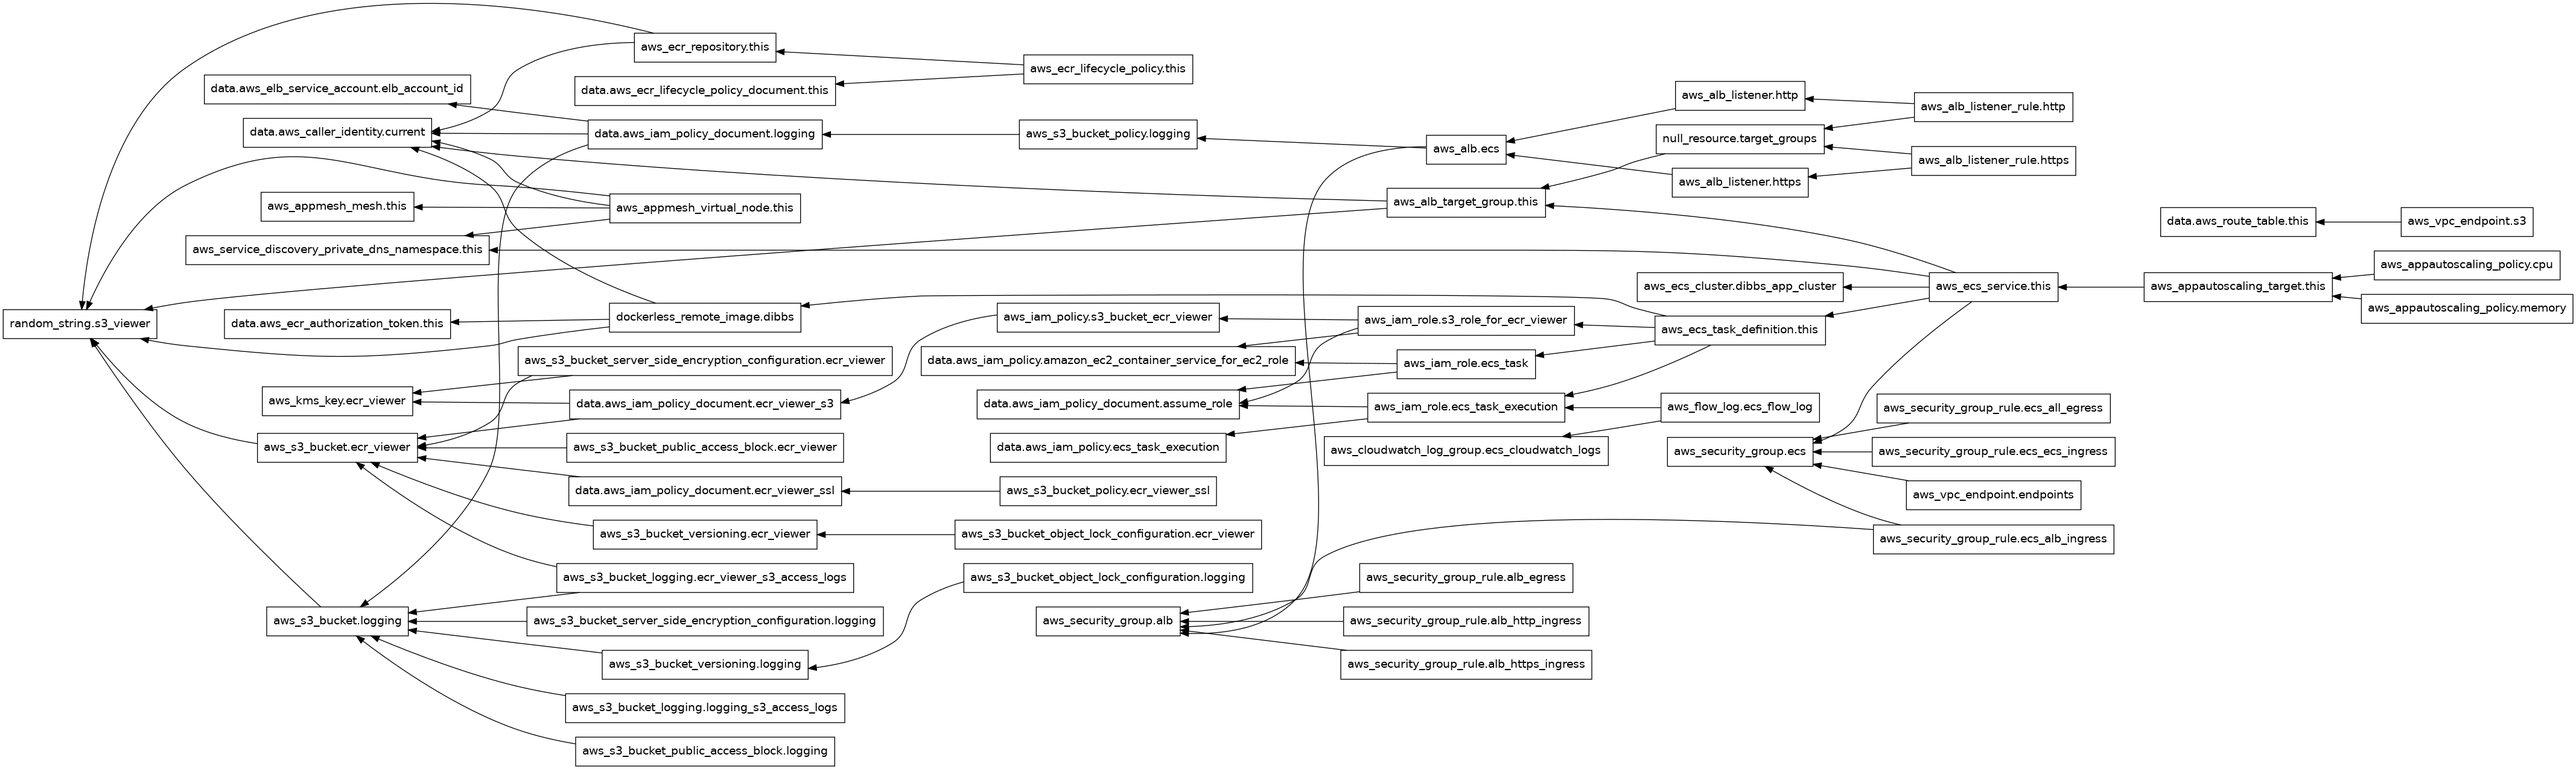
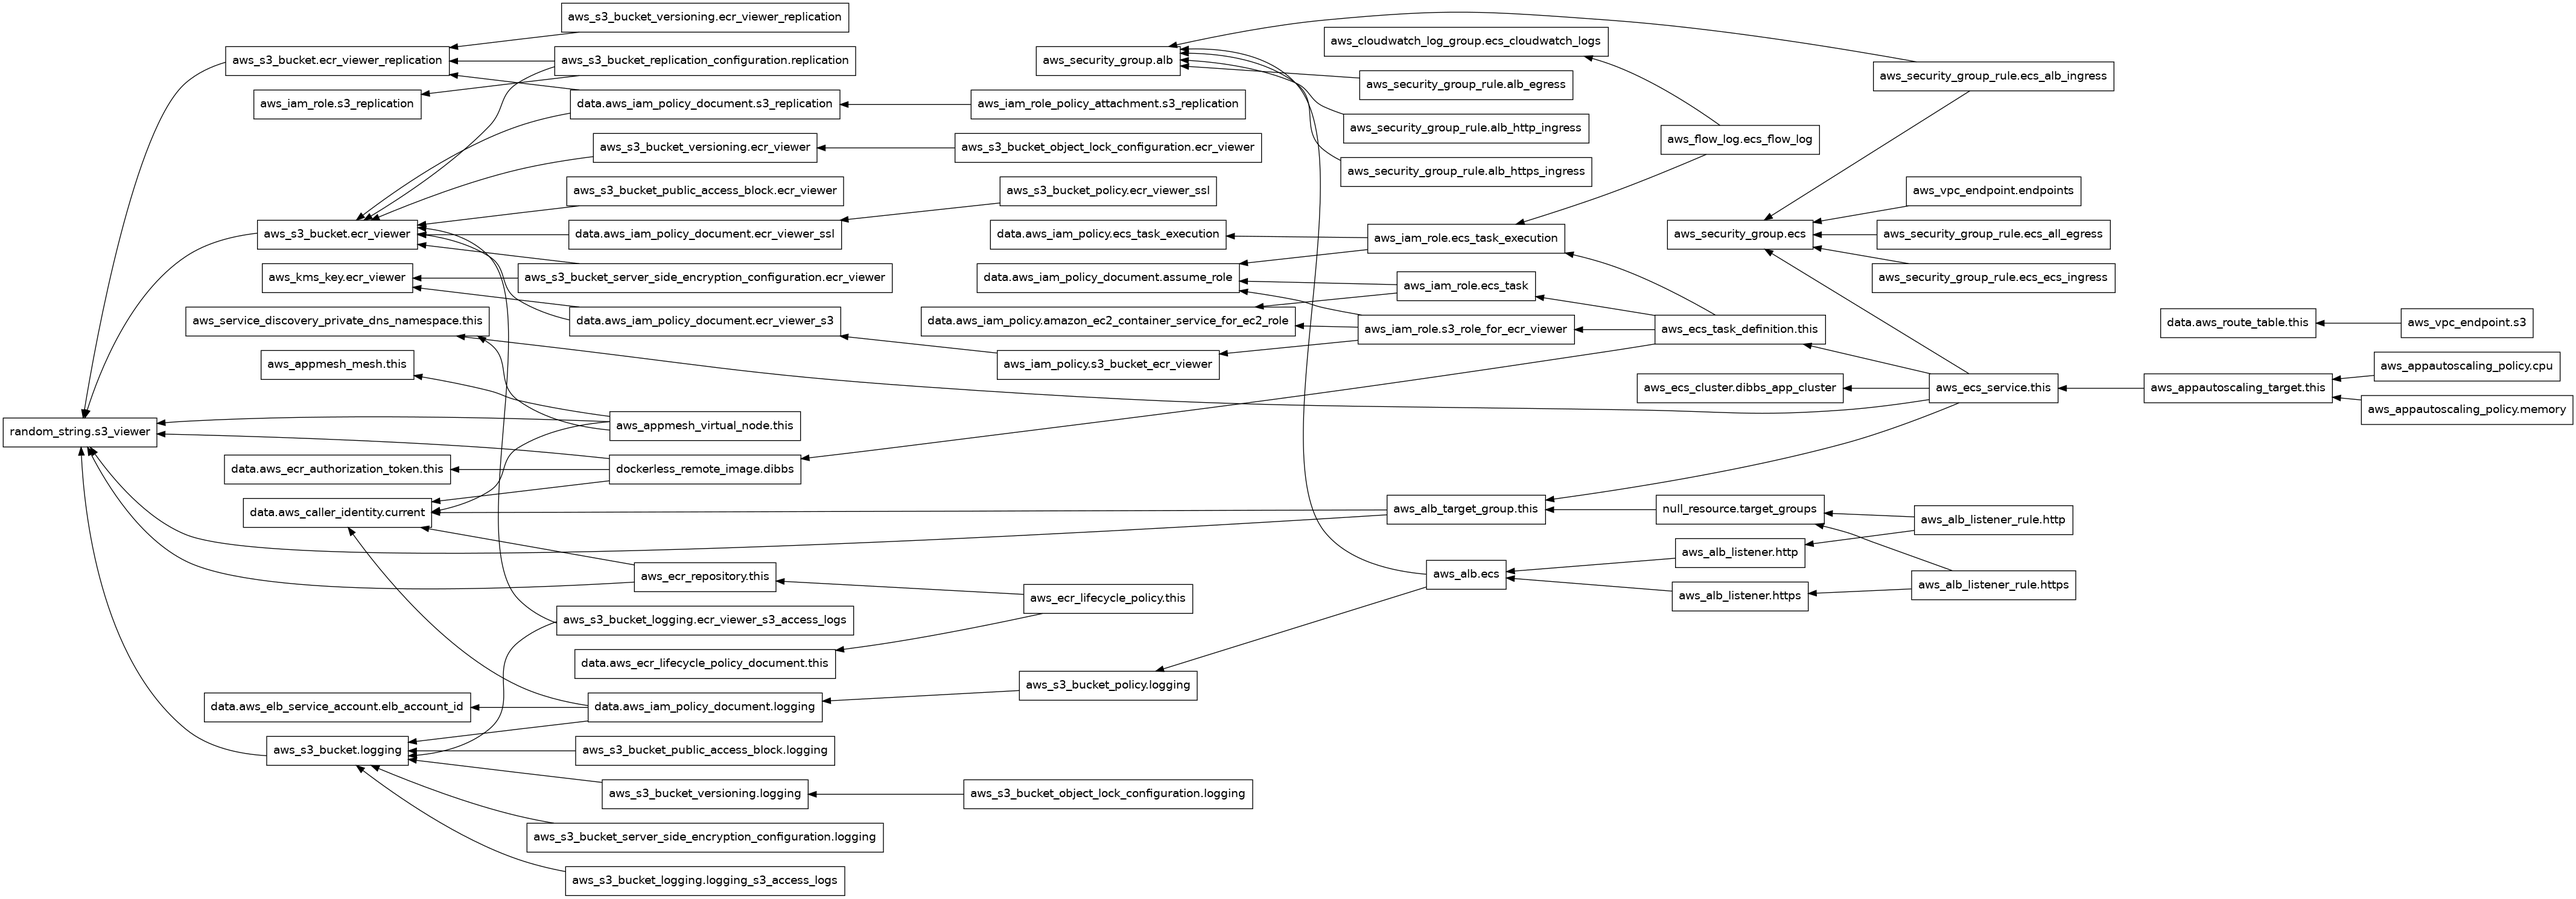
feat: add S3 replication and related configuration

Changed region(s): [[0.0, 0.0, 1.0, 1.0], [0.3739, 0.8558, 0.4985, 0.8864], [0.8412, 0.2751, 0.9035, 0.3056]]

diff --git a/README.md b/README.md
@@ -112,6 +112,7 @@ The current architectural design for dibbs-aws is as follows:
 | Name | Version |
 |------|---------|
 | <a name="provider_aws"></a> [aws](#provider\_aws) | 5.86.1 |
+| <a name="provider_aws.replication"></a> [aws.replication](#provider\_aws.replication) | 5.86.1 |
 | <a name="provider_dockerless"></a> [dockerless](#provider\_dockerless) | 0.1.1 |
 | <a name="provider_null"></a> [null](#provider\_null) | 3.2.4 |
 | <a name="provider_random"></a> [random](#provider\_random) | 3.6.3 |
@@ -145,9 +146,12 @@ No modules.
 | [aws_iam_policy.s3_bucket_ecr_viewer](https://registry.terraform.io/providers/hashicorp/aws/latest/docs/resources/iam_policy) | resource |
 | [aws_iam_role.ecs_task](https://registry.terraform.io/providers/hashicorp/aws/latest/docs/resources/iam_role) | resource |
 | [aws_iam_role.ecs_task_execution](https://registry.terraform.io/providers/hashicorp/aws/latest/docs/resources/iam_role) | resource |
+| [aws_iam_role.s3_replication](https://registry.terraform.io/providers/hashicorp/aws/latest/docs/resources/iam_role) | resource |
 | [aws_iam_role.s3_role_for_ecr_viewer](https://registry.terraform.io/providers/hashicorp/aws/latest/docs/resources/iam_role) | resource |
+| [aws_iam_role_policy_attachment.s3_replication](https://registry.terraform.io/providers/hashicorp/aws/latest/docs/resources/iam_role_policy_attachment) | resource |
 | [aws_kms_key.ecr_viewer](https://registry.terraform.io/providers/hashicorp/aws/latest/docs/resources/kms_key) | resource |
 | [aws_s3_bucket.ecr_viewer](https://registry.terraform.io/providers/hashicorp/aws/latest/docs/resources/s3_bucket) | resource |
+| [aws_s3_bucket.ecr_viewer_replication](https://registry.terraform.io/providers/hashicorp/aws/latest/docs/resources/s3_bucket) | resource |
 | [aws_s3_bucket.logging](https://registry.terraform.io/providers/hashicorp/aws/latest/docs/resources/s3_bucket) | resource |
 | [aws_s3_bucket_logging.ecr_viewer_s3_access_logs](https://registry.terraform.io/providers/hashicorp/aws/latest/docs/resources/s3_bucket_logging) | resource |
 | [aws_s3_bucket_logging.logging_s3_access_logs](https://registry.terraform.io/providers/hashicorp/aws/latest/docs/resources/s3_bucket_logging) | resource |
@@ -157,9 +161,11 @@ No modules.
 | [aws_s3_bucket_policy.logging](https://registry.terraform.io/providers/hashicorp/aws/latest/docs/resources/s3_bucket_policy) | resource |
 | [aws_s3_bucket_public_access_block.ecr_viewer](https://registry.terraform.io/providers/hashicorp/aws/latest/docs/resources/s3_bucket_public_access_block) | resource |
 | [aws_s3_bucket_public_access_block.logging](https://registry.terraform.io/providers/hashicorp/aws/latest/docs/resources/s3_bucket_public_access_block) | resource |
+| [aws_s3_bucket_replication_configuration.replication](https://registry.terraform.io/providers/hashicorp/aws/latest/docs/resources/s3_bucket_replication_configuration) | resource |
 | [aws_s3_bucket_server_side_encryption_configuration.ecr_viewer](https://registry.terraform.io/providers/hashicorp/aws/latest/docs/resources/s3_bucket_server_side_encryption_configuration) | resource |
 | [aws_s3_bucket_server_side_encryption_configuration.logging](https://registry.terraform.io/providers/hashicorp/aws/latest/docs/resources/s3_bucket_server_side_encryption_configuration) | resource |
 | [aws_s3_bucket_versioning.ecr_viewer](https://registry.terraform.io/providers/hashicorp/aws/latest/docs/resources/s3_bucket_versioning) | resource |
+| [aws_s3_bucket_versioning.ecr_viewer_replication](https://registry.terraform.io/providers/hashicorp/aws/latest/docs/resources/s3_bucket_versioning) | resource |
 | [aws_s3_bucket_versioning.logging](https://registry.terraform.io/providers/hashicorp/aws/latest/docs/resources/s3_bucket_versioning) | resource |
 | [aws_security_group.alb](https://registry.terraform.io/providers/hashicorp/aws/latest/docs/resources/security_group) | resource |
 | [aws_security_group.ecs](https://registry.terraform.io/providers/hashicorp/aws/latest/docs/resources/security_group) | resource |
@@ -185,6 +191,7 @@ No modules.
 | [aws_iam_policy_document.ecr_viewer_s3](https://registry.terraform.io/providers/hashicorp/aws/latest/docs/data-sources/iam_policy_document) | data source |
 | [aws_iam_policy_document.ecr_viewer_ssl](https://registry.terraform.io/providers/hashicorp/aws/latest/docs/data-sources/iam_policy_document) | data source |
 | [aws_iam_policy_document.logging](https://registry.terraform.io/providers/hashicorp/aws/latest/docs/data-sources/iam_policy_document) | data source |
+| [aws_iam_policy_document.s3_replication](https://registry.terraform.io/providers/hashicorp/aws/latest/docs/data-sources/iam_policy_document) | data source |
 | [aws_route_table.this](https://registry.terraform.io/providers/hashicorp/aws/latest/docs/data-sources/route_table) | data source |
 
 ## Inputs
@@ -200,7 +207,7 @@ No modules.
 | <a name="input_auth_url"></a> [auth\_url](#input\_auth\_url) | Optional. The full URL of the auth api. By default https://your-site.com/ecr-viewer/api/auth. | `string` | `""` | no |
 | <a name="input_certificate_arn"></a> [certificate\_arn](#input\_certificate\_arn) | ARN of the SSL certificate that enables ssl termination on the ALB | `string` | `""` | no |
 | <a name="input_cloudmap_namespace_name"></a> [cloudmap\_namespace\_name](#input\_cloudmap\_namespace\_name) | Name of the AWS Cloud Map namespace | `string` | `""` | no |
-| <a name="input_cw_retention_in_days"></a> [cw\_retention\_in\_days](#input\_cw\_retention\_in\_days) | Retention period in days for CloudWatch logs | `number` | `30` | no |
+| <a name="input_cw_retention_in_days"></a> [cw\_retention\_in\_days](#input\_cw\_retention\_in\_days) | Retention period in days for CloudWatch logs | `number` | `365` | no |
 | <a name="input_db_cipher"></a> [db\_cipher](#input\_db\_cipher) | The cipher to use for the sql server database connection | `string` | `""` | no |
 | <a name="input_dibbs_config_name"></a> [dibbs\_config\_name](#input\_dibbs\_config\_name) | Name of the DIBBS configuration | `string` | `""` | no |
 | <a name="input_dibbs_repo"></a> [dibbs\_repo](#input\_dibbs\_repo) | Name of the DIBBS repository | `string` | `"ghcr.io/cdcgov/dibbs-ecr-viewer"` | no |
@@ -214,6 +221,7 @@ No modules.
 | <a name="input_ecs_cluster_name"></a> [ecs\_cluster\_name](#input\_ecs\_cluster\_name) | Name of the ECS Cluster | `string` | `""` | no |
 | <a name="input_ecs_task_execution_role_name"></a> [ecs\_task\_execution\_role\_name](#input\_ecs\_task\_execution\_role\_name) | Name of the ECS Task Execution Role | `string` | `""` | no |
 | <a name="input_ecs_task_role_name"></a> [ecs\_task\_role\_name](#input\_ecs\_task\_role\_name) | Name of the ECS Task Role | `string` | `""` | no |
+| <a name="input_enable_alb_deletion_protection"></a> [enable\_alb\_deletion\_protection](#input\_enable\_alb\_deletion\_protection) | Flag to enable ALB deletion protection | `bool` | `true` | no |
 | <a name="input_enable_alb_logs"></a> [enable\_alb\_logs](#input\_enable\_alb\_logs) | Flag to enable ALB access and connection logging to s3 logging bucket | `bool` | `true` | no |
 | <a name="input_enable_autoscaling"></a> [enable\_autoscaling](#input\_enable\_autoscaling) | Flag to enable autoscaling for the ECS services | `bool` | `true` | no |
 | <a name="input_internal"></a> [internal](#input\_internal) | Flag to determine if the several AWS resources are public (intended for external access, public internet) or private (only intended to be accessed within your AWS VPC or avaiable with other means, a transit gateway for example). | `bool` | `true` | no |
@@ -225,6 +233,7 @@ No modules.
 | <a name="input_project"></a> [project](#input\_project) | The project name | `string` | `"dibbs"` | no |
 | <a name="input_public_subnet_ids"></a> [public\_subnet\_ids](#input\_public\_subnet\_ids) | List of public subnet IDs | `list(string)` | n/a | yes |
 | <a name="input_region"></a> [region](#input\_region) | The AWS region where resources are created | `string` | n/a | yes |
+| <a name="input_replication_region"></a> [replication\_region](#input\_replication\_region) | The AWS region where S3 bucket replication destination is located | `string` | n/a | yes |
 | <a name="input_s3_logging_bucket_name"></a> [s3\_logging\_bucket\_name](#input\_s3\_logging\_bucket\_name) | Name of the S3 bucket for logging | `string` | `""` | no |
 | <a name="input_s3_viewer_bucket_name"></a> [s3\_viewer\_bucket\_name](#input\_s3\_viewer\_bucket\_name) | Name of the S3 bucket for the viewer | `string` | `""` | no |
 | <a name="input_s3_viewer_bucket_role_name"></a> [s3\_viewer\_bucket\_role\_name](#input\_s3\_viewer\_bucket\_role\_name) | Name of the IAM role for the ecr-viewer bucket | `string` | `""` | no |
